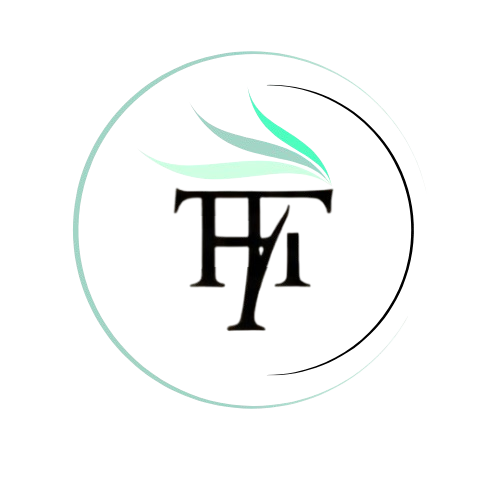
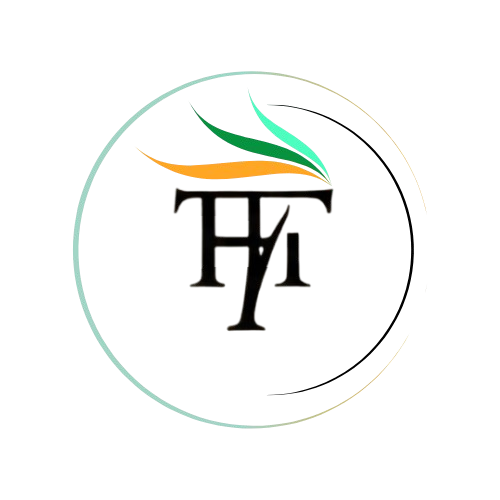
homepage

diff --git a/components/magicui/interactive-grid-pattern.tsx b/components/magicui/interactive-grid-pattern.tsx
@@ -1,0 +1,72 @@
+"use client";
+
+import { cn } from "/lib/utils";
+import React, { useState } from "react";
+
+/**
+ * InteractiveGridPattern is a component that renders a grid pattern with interactive squares.
+ *
+ * @param width - The width of each square.
+ * @param height - The height of each square.
+ * @param squares - The number of squares in the grid. The first element is the number of horizontal squares, and the second element is the number of vertical squares.
+ * @param className - The class name of the grid.
+ * @param squaresClassName - The class name of the squares.
+ */
+interface InteractiveGridPatternProps extends React.SVGProps<SVGSVGElement> {
+  width?: number;
+  height?: number;
+  squares?: [number, number]; // [horizontal, vertical]
+  className?: string;
+  squaresClassName?: string;
+}
+
+/**
+ * The InteractiveGridPattern component.
+ *
+ * @see InteractiveGridPatternProps for the props interface.
+ * @returns A React component.
+ */
+export function InteractiveGridPattern({
+  width = 40,
+  height = 40,
+  squares = [24, 24],
+  className,
+  squaresClassName,
+  ...props
+}: InteractiveGridPatternProps) {
+  const [horizontal, vertical] = squares;
+  const [hoveredSquare, setHoveredSquare] = useState<number | null>(null);
+
+  return (
+    <svg
+      width={width * horizontal}
+      height={height * vertical}
+      className={cn(
+        "absolute inset-0 h-full w-full border border-gray-400/30",
+        className,
+      )}
+      {...props}
+    >
+      {Array.from({ length: horizontal * vertical }).map((_, index) => {
+        const x = (index % horizontal) * width;
+        const y = Math.floor(index / horizontal) * height;
+        return (
+          <rect
+            key={index}
+            x={x}
+            y={y}
+            width={width}
+            height={height}
+            className={cn(
+              "stroke-gray-400/30 transition-all duration-100 ease-in-out [&:not(:hover)]:duration-1000",
+              hoveredSquare === index ? "fill-gray-300/30" : "fill-transparent",
+              squaresClassName,
+            )}
+            onMouseEnter={() => setHoveredSquare(index)}
+            onMouseLeave={() => setHoveredSquare(null)}
+          />
+        );
+      })}
+    </svg>
+  );
+}

diff --git a/client/src/components/Visa.css b/client/src/components/Visa.css
@@ -1,0 +1,114 @@
+.flag-grid-container {
+  display: grid;
+  grid-template-columns: repeat(auto-fill, minmax(220px, 1fr)); /* Wider min size */
+  gap: 20px;
+  padding: 20px;
+  width: 100%;
+  max-width: 1200px;
+  margin: 0 auto;
+  
+  background-color: #D3ECCD;
+  border-radius: 10px;
+}
+
+.columns {
+  height: 100px; 
+  width: 100%; 
+  display: flex;
+  align-items: center;
+  justify-content: center;
+  position: relative;
+  border-radius: 20px;
+  padding: 5px;
+  border: 2px solid black;
+  transition: all 0.4s;
+  box-sizing: border-box;
+  background-color: white;
+  text-align: center;
+}
+
+
+.columns:hover {
+  box-shadow: 4px 4px 0 1px rgba(0, 0, 0);
+  background-color: #4DFFBE;
+}
+
+.dots {
+  position: absolute;
+  right: 15px;
+  top: 15px;
+}
+
+
+
+.flag {
+  margin-right: 10px;
+}
+
+
+.secondary-heading {
+  display: flex;
+  align-items: center;
+  justify-content: center;
+  gap: 10px;
+  font-size: 18px;
+  font-weight: 600;
+  margin: 0;
+  white-space: nowrap;
+}
+
+
+
+.container-Visa {
+
+  position: relative;
+  padding: 80px 20px;
+  display: flex;
+  justify-content: center;
+  align-items: center;
+  flex-wrap: wrap;
+  z-index: 0;
+  overflow: hidden;
+  background-color: #ffffff;
+}
+
+.spiral {
+  position: absolute;
+  bottom: 20px; /* You can tweak this */
+  right: 20px;  /* or left: 20px; */
+  width: 200px;
+  height: 200px;
+  border-radius: 50%; /* Makes it a circle */
+  background: repeating-radial-gradient(
+    circle at center,
+    #FFA725 0,
+    #FFA725 1em,
+    white 1em,
+    white 2em
+  );
+  animation: spin 10s linear infinite;
+  opacity: 0.6;
+  z-index: -1;
+}
+.ball-1 {
+  top: 30%;
+  left: -90px;
+  animation-duration: 20s;
+}
+
+.ball-2 {
+  bottom: 5px;
+  
+  width: 250px;
+  height: 250px;
+  animation-duration: 25s;
+}
+
+.ball-3 {
+  top: 10%;
+  right: 20%;
+  width: 100px;
+  height: 100px;
+  animation-duration: 18s;
+}
+

diff --git a/client/src/components/Visa.jsx b/client/src/components/Visa.jsx
@@ -1,0 +1,42 @@
+import React from 'react';
+import './Visa.css'; 
+
+const countries = [
+  { code: 'us', name: 'USA' },
+  { code: 'gb', name: 'UK' },
+  { code: 'fr', name: 'France' },
+  { code: 'de', name: 'Germany' },
+  { code: 'pk', name: 'Pakistan' },
+  { code: 'in', name: 'India' },
+  { code: 'sa', name: 'Saudi Arabia' },
+  { code: 'ca', name: 'Canada' },
+];
+
+const Visa = () => {
+  return (
+    
+    <div className="container-Visa">
+        
+        <div className="spiral-container">
+            <span className="spiral ball-1"></span>
+            <span className="spiral ball-2"></span>
+            <span className="spiral ball-3"></span>
+        </div>
+
+        <div className="flag-grid-container">
+            {countries.map((country) => (
+            <div className="card columns" key={country.code}>
+                <p className="secondary-heading">
+                <span className={`fi fi-${country.code}`}></span>
+                {country.name}
+                </p>
+            </div>
+            ))}
+        </div>
+        </div>
+
+    
+  );
+};
+
+export default Visa;

diff --git a/client/src/components/Topheader.css b/client/src/components/Topheader.css
@@ -35,7 +35,7 @@
   display: flex;
   align-items: center;
   gap: 8px;
-  background-color: #A2D5C6; 
+  background-color: #D3ECCD; 
   color: black; 
   padding: 8px 16px;
   border-radius: 30px;
@@ -57,7 +57,7 @@
     box-shadow: 0 6px 20px rgba(77, 255, 190, 0.4); ;
 }
 .phone-icon {
-  color:#A2D5C6 ; 
+  color:#D3ECCD ; 
   font-size: 14px; 
   width: 18px; 
   height: 14px; 
@@ -71,7 +71,7 @@
   display: block;
   box-sizing: border-box;
   height: 14px;
-  border: 2px solid #A2D5C6;
+  border: 2px solid #D3ECCD;
 }
 .gg-mail {
   overflow: hidden;

diff --git a/client/src/App.jsx b/client/src/App.jsx
@@ -2,6 +2,7 @@ import React from 'react';
 import { BrowserRouter as Router, Routes, Route } from 'react-router-dom';
 import Home from './pages/Home';
 import HeaderWrapper from './components/HeaderWrapper';
+
 import Packages from './pages/Packages';
 import Register from './pages/Register';
 import Login from './pages/Login';
@@ -14,6 +15,7 @@ function App() {
   return (
     <Router>
       <HeaderWrapper />
+      
       <Routes>
         <Route path="/" element={<Home />} />
         <Route path="/register" element={<Register />} />

diff --git a/client/src/components/Navbar.css b/client/src/components/Navbar.css
@@ -32,7 +32,7 @@
   font-size: 1.8rem;
   font-weight: bold;
   text-decoration: none;
-  color: #A2D5C6;
+  color: #06923E;
 }
 
 .navbar-links {
@@ -80,13 +80,14 @@
 }
 
 .navbar-links a:hover::before {
-  background: #4DFFBE;
+  background: #06923E;
   animation: clockwise 1s infinite;
   opacity: 1;
 }
 
 .navbar-links a:hover::after {
-  background: #CFFFE2;
+  background: #4DFFBE;
+  color: #D3ECCD;
   animation: counterclockwise 2s infinite;
   opacity: 1;
 }

diff --git a/client/src/pages/Home.jsx b/client/src/pages/Home.jsx
@@ -1,10 +1,14 @@
 import React from 'react';
 import HeroSection from '../components/HeroSection';
+import Visa from '../components/Visa';
 
 const Home = () => {
   return (
     <>
       <HeroSection />
+      
+      <Visa />
+
       <section className="text-center py-12">
         <h2 className="text-2xl font-bold text-gray-800 mb-4">Top Destinations</h2>
         <p className="text-gray-600">Discover our most popular travel packages</p>

diff --git a/client/index.html b/client/index.html
@@ -5,6 +5,7 @@
     <link rel="icon" type="image/png" href="/images/logo2.png" />
     <meta name="viewport" content="width=device-width, initial-scale=1.0" />
     <link rel="stylesheet" href="https://unicons.iconscout.com/release/v4.0.0/css/line.css">
+    <link rel="stylesheet" href="https://cdn.jsdelivr.net/npm/flag-icons/css/flag-icons.min.css">
 
     <title>Travellogist</title>
   </head>

diff --git a/client/src/components/HeaderWrapper.css b/client/src/components/HeaderWrapper.css
@@ -3,7 +3,7 @@
   width: 100%;
   margin: 0;
   padding: 0;
-  background-color: #4DFFBE; 
+  background-color: #E67514; 
 }
 
 .navbar-container-wrapper {

diff --git a/client/src/components/HeroSection.jsx b/client/src/components/HeroSection.jsx
@@ -62,6 +62,8 @@ const HeroSection = () => {
 
     </div>
     
+    
+    
   );
 };
 
